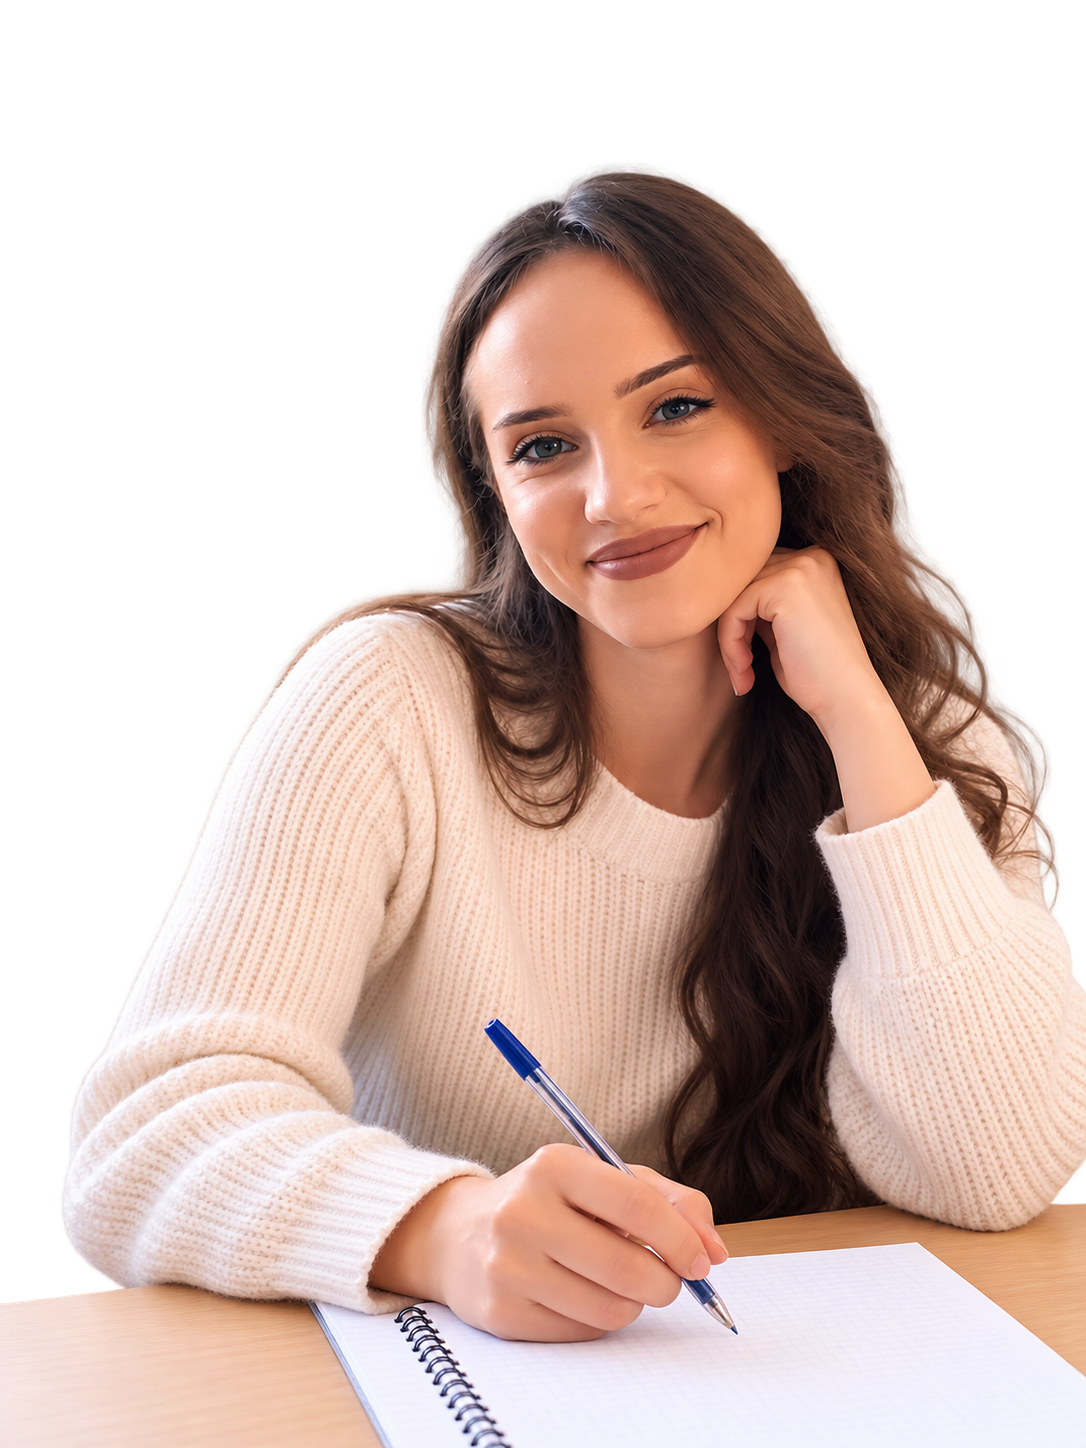
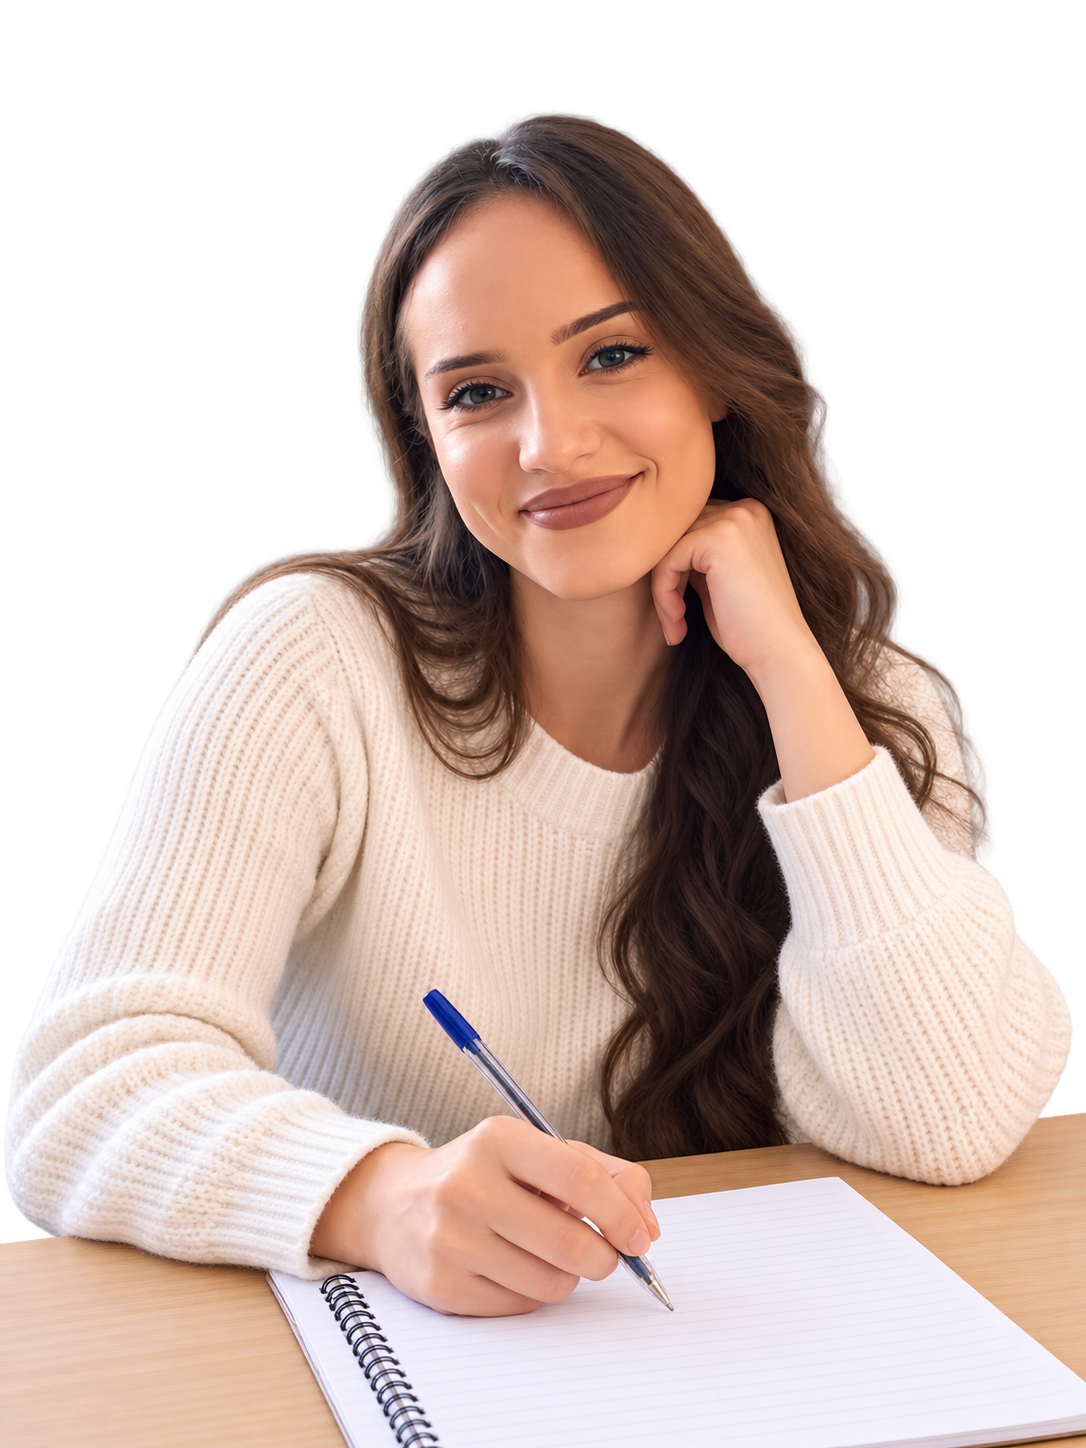
feat: refine hero visuals and portrait composition

diff --git a/src/components/Hero/Hero.module.css b/src/components/Hero/Hero.module.css
@@ -171,10 +171,28 @@
 .portrait {
   position: absolute;
   top: -5rem;
-  right: 5rem;
-  width: 37.5rem;
+  right: 7rem;
+  width: 34.5rem;
   max-width: none;
   height: auto;
+}
+
+.mug,
+.books,
+.note {
+  position: absolute;
+  max-width: none;
+  height: auto;
+  pointer-events: none;
+  user-select: none;
+}
+
+.note {
+  top: var(--space-4);
+  right: -7rem;
+  width: 17.5rem;
+  /* The supplied note includes an unrelated book strip on its left edge. */
+  clip-path: inset(0 0 0 10%);
 }
 
 .pyramid {

diff --git a/src/components/Hero/Hero.tsx b/src/components/Hero/Hero.tsx
@@ -67,6 +67,14 @@ export default function Hero() {
             sizes="600px"
             preload
           />
+          <Image
+            className={styles.note}
+            src="/images/hero/note.png"
+            alt=""
+            width={737}
+            height={724}
+            sizes="280px"
+          />
         </div>
       </div>
       <svg
